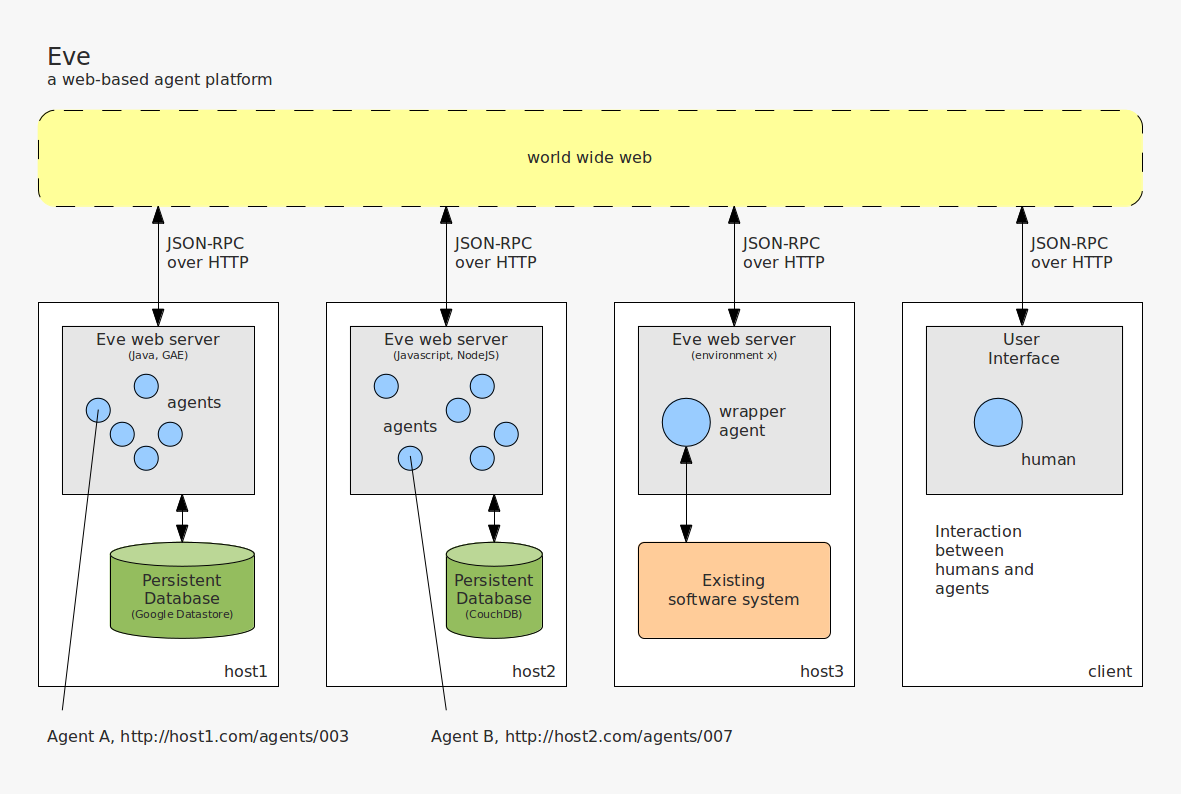
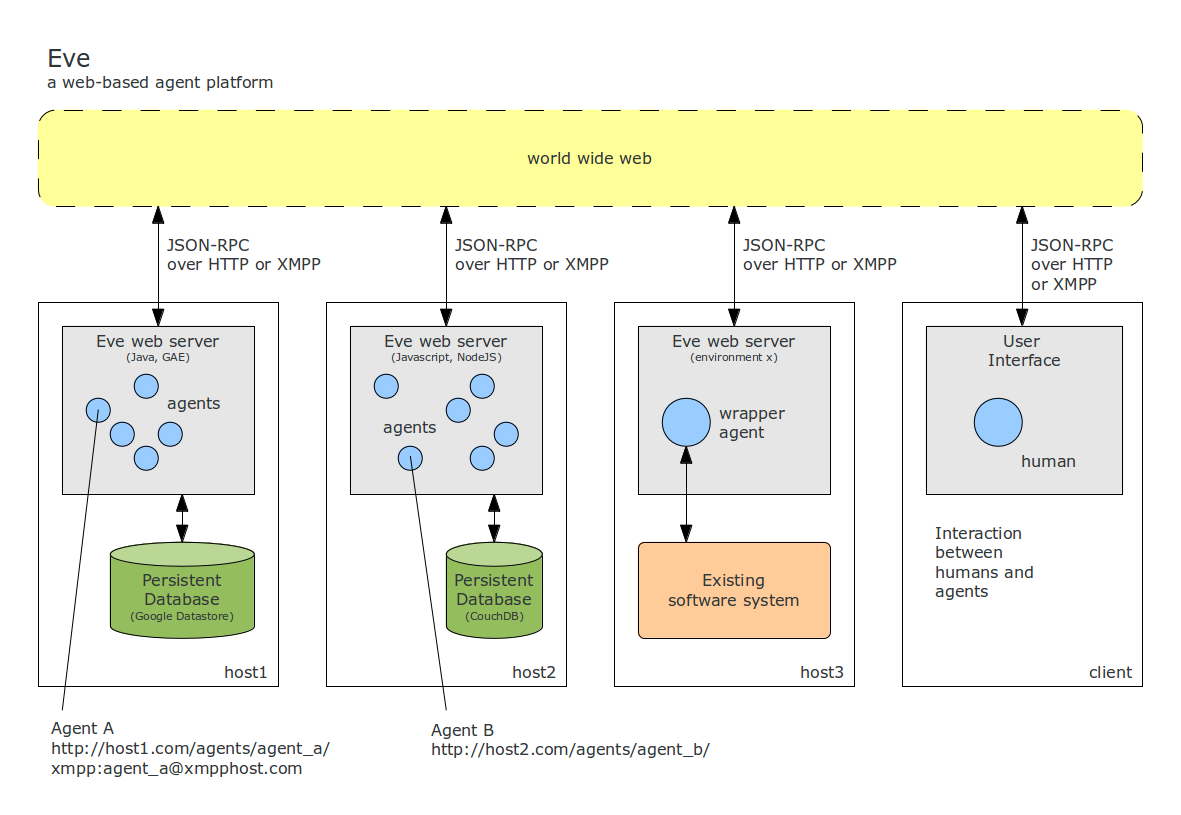
Added a picture with the java architecture of Eve

diff --git a/_layouts/default.html b/_layouts/default.html
@@ -46,6 +46,7 @@
                             <li><a class="nav" href="java_overview.html">Overview</a></li>
                             <li><a class="nav" href="java_downloads.html">Downloads</a></li>
                             <li><a class="nav" href="java_gettingstarted.html">Getting Started</a></li>
+                            <li><a class="nav" href="java_architecture.html">Architecture</a></li>
                             <li><a class="nav" href="java_libraries.html">Libraries</a></li>
                             <li><a class="nav" href="java_services.html">Services</a></li>
                             <li><a class="nav" href="java_configuration.html">Configuration</a></li>

diff --git a/java_configuration.md b/java_configuration.md
@@ -139,7 +139,7 @@ Description of the available properties:
                 </tr>
                 <tr>
                     <td>path</td>
-                    <td>The path on disk where the agents state will be stored.
+                    <td>The path on disk where the context of the agents will be stored.
                         Only applicable for the <code>FileContextFactory</code>.</td>
                 </tr>
             </table>
@@ -150,7 +150,11 @@ Description of the available properties:
             <ul>
                 <li><code>FileContextFactory</code>.
                     Located in eve-core.jar.
-                    Not applicable when deployed on Google App Engine.</li>
+                    The FileContextFactory stores the context of each agent as a
+                    file on disk. The files may only be used by a single Eve
+                    application. Multiple Eve applications running on the same
+                    machine must use a different `path`.
+                    This context is not applicable when deployed on Google App Engine.</li>
                 <li><code>MemoryContextFactory</code>.
                     Located in eve-core.jar.</li>
                 <li><code>DatastoreContextFactory</code>.

diff --git a/index.md b/index.md
@@ -9,7 +9,7 @@ Eve is a multipurpose, web based agent platform.
 The project aims to develop an open protocol for communication between software agents. 
 Eve is designed as a decentral, scalable system for autonomously acting agents.
 Eve uses the existing world wide web as platform, 
-and uses existing protocols for communication (HTTP, XMPP, JSON-RPC).
+and uses existing protocols for communication (JSON-RPC over HTTP and XMPP).
 
 Eve is being developed by [Almende](http://www.almende.com),
 a Dutch research company specialized in information and communication technologies.

diff --git a/java_architecture.md b/java_architecture.md
@@ -1,0 +1,12 @@
+---
+layout: default
+title: Architecture
+---
+
+
+# Architecture
+
+The Java architecture of Eve is depictured in the schema below.
+
+[<img src="img/java_architecture_small.png"
+  title="Click for a larger view">](img/java_architecture.png)
